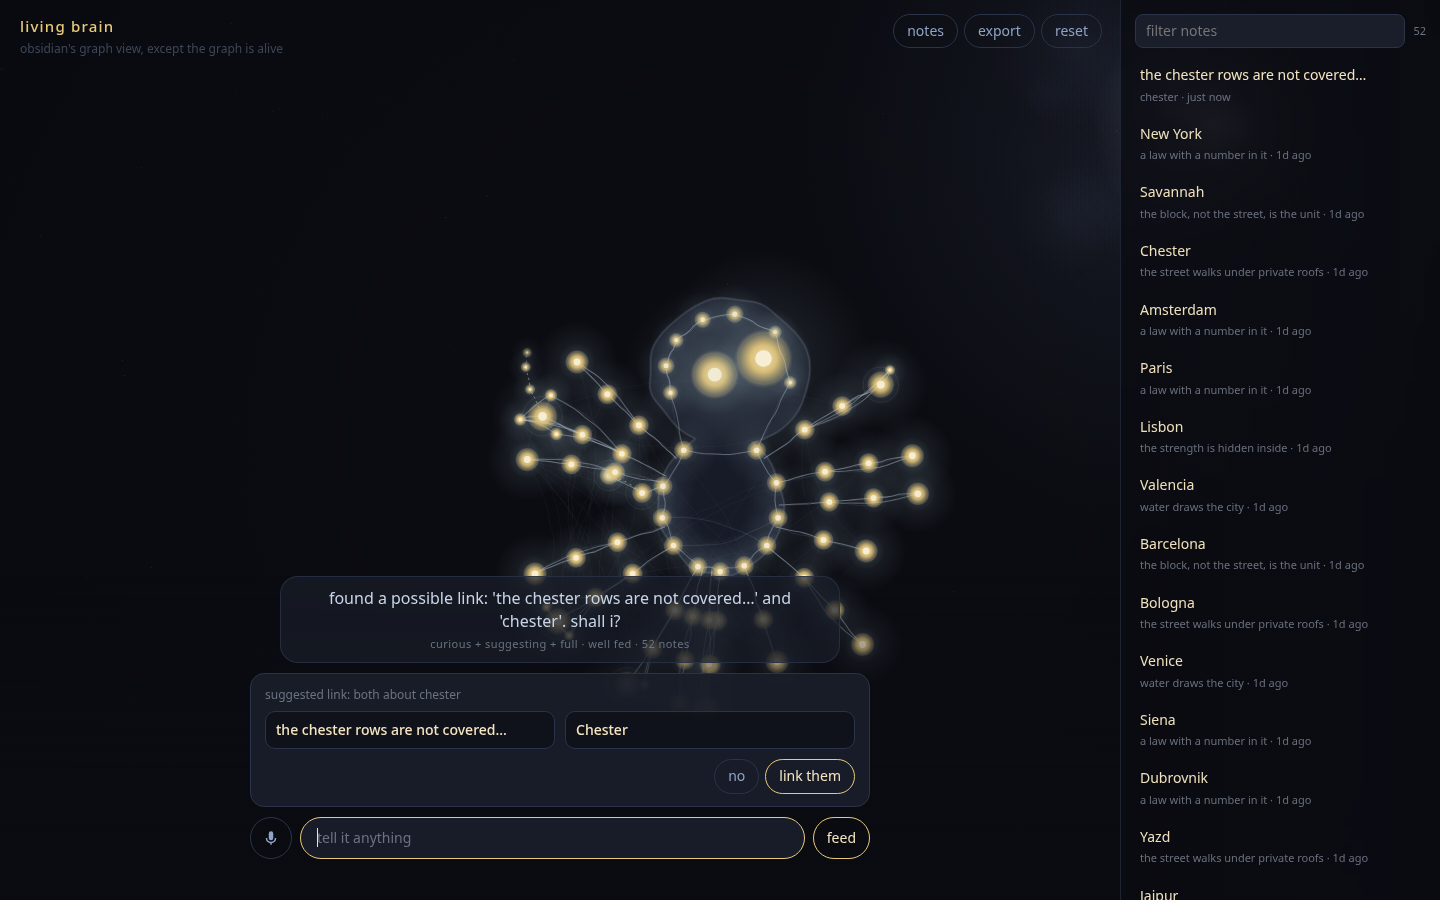
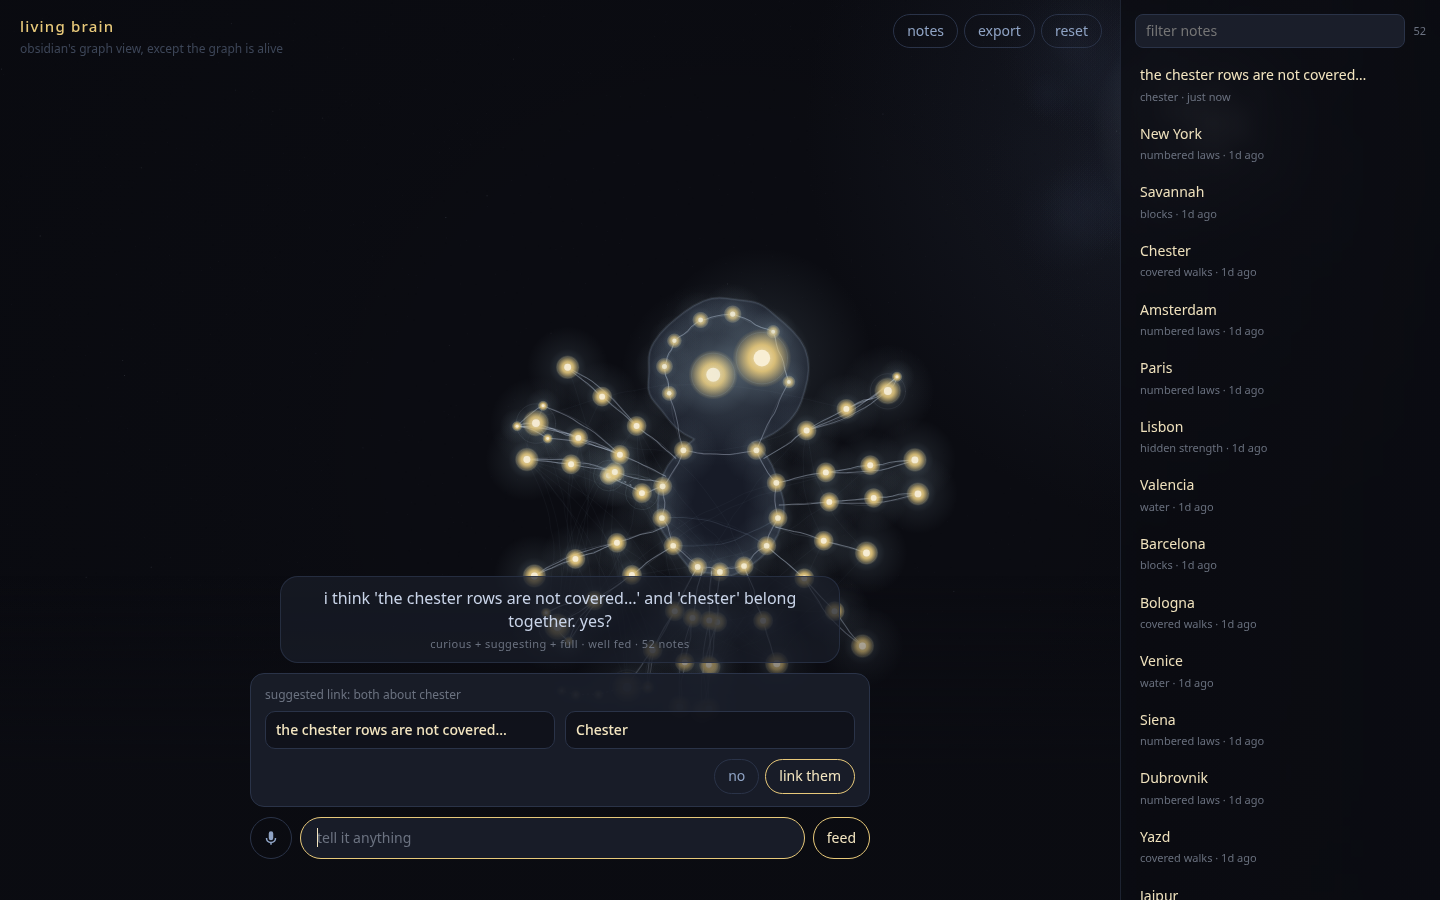
App: arguing lines quote ~8 words of each note (older first), {topic} from note.topic via tick()'s hungry limb (by Forge)

diff --git a/app/store.js b/app/store.js
@@ -145,29 +145,49 @@ export function resolve(store, cId, choice, mergedText, t = Date.now()) {
 }
 const olderOf = (store, c) => { const a = store.notes.find(n => n.id === c.a), b = store.notes.find(n => n.id === c.b); return ms(a.createdAt) <= ms(b.createdAt) ? a.id : b.id; };
 
-// Which limb droops, by name. ids: Engram's hungryIds if tick() gives them, else the hungriest
-// cluster, else the cluster with the oldest average lastTouchedAt (what Twelve's viz droops).
+// Which limb droops, by name. Engram's tick() decides: creature.hungryIds is the limb, and
+// creature.hungryFor is its topic (or, from older brain.js, its stalest titles). The shell only
+// falls back to its own guess when tick() names nothing (e.g. not hungry, or an older brain.js).
 export function droopingLimb(store, hunger = clusterHunger(store)) {
   const byId = new Map(store.notes.map(n => [n.id, n]));
-  let ids = store.creature?.hungryIds?.length ? store.creature.hungryIds : hunger[0] && hunger[0].hunger > 0.6 ? hunger[0].ids : null;
+  const c = store.creature || {}, hf = c.hungryFor || [];
+  const top = hunger[0] && hunger[0].hunger > 0.6 ? hunger[0] : null;
+  let ids = c.hungryIds?.length ? c.hungryIds : top ? top.ids : null;
   if (!ids) {
-    const staleness = c => c.ids.reduce((s, id) => s + ms(byId.get(id).lastTouchedAt), 0) / c.ids.length;
-    const multi = hunger.filter(c => c.ids.length > 1);
+    const staleness = g => g.ids.reduce((s, id) => s + ms(byId.get(id).lastTouchedAt), 0) / g.ids.length;
+    const multi = hunger.filter(g => g.ids.length > 1);
     const pool = multi.length ? multi : hunger;
     ids = pool.length ? pool.slice().sort((x, y) => staleness(x) - staleness(y))[0].ids : [];
   }
   const ns = ids.map(id => byId.get(id)).filter(n => n && alive(n));
-  const f = tagFreq(store.notes.filter(alive)), ok = usefulTag(f, store.notes.length);
-  // a cluster can hold several limbs (the seed is one big cluster), so name the stalest limb in it:
-  // group by note.topic, else by the most specific useful tag, and take the oldest average lastTouchedAt
-  const keyOf = n => n.topic || (n.tags || []).filter(ok).sort((a, b) => f.get(a) - f.get(b))[0] || (n.tags || [])[0] || 'that corner';
-  const groups = new Map();
-  for (const n of ns) { const k = keyOf(n); if (!groups.has(k)) groups.set(k, []); groups.get(k).push(n); }
   const avg = g => g.reduce((s, n) => s + ms(n.lastTouchedAt), 0) / g.length;
-  const [topic, limb] = [...groups].sort((x, y) => avg(x[1]) - avg(y[1]))[0] || ['that corner', []];
-  const hf = store.creature?.hungryFor || [];
-  const note = limb.find(n => hf.includes(n.title))?.title || limb.slice().sort((a, b) => ms(a.lastTouchedAt) - ms(b.lastTouchedAt))[0]?.title || '';
+  const topics = new Set(ns.map(n => n.topic).filter(Boolean));
+  // topic: hungryFor[0] when it is a topic, else the limb's one shared topic, else its stalest topic group
+  let topic = hf.find(x => topics.has(x)) || (topics.size === 1 ? [...topics][0] : null) || (top && top.topic) || null;
+  if (!topic && topics.size) {
+    const groups = new Map();
+    for (const n of ns) if (n.topic) { if (!groups.has(n.topic)) groups.set(n.topic, []); groups.get(n.topic).push(n); }
+    topic = [...groups].sort((x, y) => avg(x[1]) - avg(y[1]))[0][0];
+  }
+  let limb = topic ? ns.filter(n => n.topic === topic) : ns;
+  if (!topic) { // no topics at all: most specific shared tag
+    const f = tagFreq(store.notes.filter(alive)), ok = usefulTag(f, store.notes.length), m = new Map();
+    for (const t of ns.flatMap(n => (n.tags || []).filter(ok))) m.set(t, (m.get(t) || 0) + 1);
+    topic = [...m].sort((x, y) => y[1] - x[1])[0]?.[0] || 'that corner';
+  }
+  const stalest = limb.slice().sort((x, y) => ms(x.lastTouchedAt) - ms(y.lastTouchedAt));
+  const note = limb.find(n => hf.includes(n.title))?.title || stalest[0]?.title || '';
   return { ids, limbIds: limb.map(n => n.id), topic, note };
+}
+
+// ~8 of a note's own words, for arguing lines (kiln: quote the notes, not their titles)
+export function excerpt(text, max = 8) {
+  const words = String(text || '').replace(/#[\p{L}\p{N}_-]+/gu, '').replace(/\s+/g, ' ').trim().split(' ').filter(Boolean);
+  const cut = words.length > max;
+  let out = words.slice(0, max).join(' ');
+  if ((out.match(/\(/g) || []).length > (out.match(/\)/g) || []).length) out = out.slice(0, out.lastIndexOf('(')); // no half parentheses
+  out = out.replace(/[\s.,;:!?\-—]+$/, '');
+  return (out + (cut ? '…' : '')).toLowerCase();
 }
 
 // ---------- the creature's speech ----------
@@ -192,14 +212,18 @@ export function speech(store, lines, { hunger, event, lastNoteId, pick = Math.ra
   if (event === 'named') return { key: 'named', text: choose(L.naming, { name: c.name }) };
   if (event === 'after_no') return { key: 'after_no:' + Date.now(), text: choose(L.after_no, {}) };
   const arg = nextContradiction(store);
-  if (arg) return { key: 'arguing:' + arg.id, text: choose(L.moods?.arguing, { note_a: title(arg.a), note_b: title(arg.b) }) };
+  if (arg) { // a = older (coral), b = newer (violet); quote their own words, old first
+    const txt = id => excerpt(store.notes.find(n => n.id === id)?.text);
+    return { key: 'arguing:' + arg.id, text: choose(L.moods?.arguing, { note_a: txt(arg.a), note_b: txt(arg.b) }) };
+  }
   const sug = openSuggestion(store);
   if (sug) return { key: 'suggesting:' + sug.id, text: choose(L.flags?.suggesting, { note_a: title(sug.from), note_b: title(sug.to) }) };
   if (c.mood === 'curious' && lastNoteId) return { key: 'curious:' + lastNoteId, text: choose(L.moods?.curious, { note: title(lastNoteId) }) };
   if (c.mood === 'hungry') { const d = droopingLimb(store, hunger); return { key: 'hungry:' + d.topic, text: choose(L.moods?.hungry, { topic: low(d.topic), note: low(d.note) }) }; }
   if (f.full) {
     const ids = new Set(f.fullCluster || []), ns = store.notes.filter(n => ids.has(n.id));
-    const topic = ns.find(n => n.topic)?.topic || ns.flatMap(n => n.tags || []).find(t => t !== 'city') || 'this';
+    const count = new Map(); for (const n of ns) if (n.topic) count.set(n.topic, (count.get(n.topic) || 0) + 1);
+    const topic = [...count].sort((a, b) => b[1] - a[1])[0]?.[0] || ns.flatMap(n => n.tags || []).find(t => t !== 'city') || 'this';
     const note = ns.slice().sort((a, b) => ms(b.lastTouchedAt) - ms(a.lastTouchedAt))[0]?.title || '';
     return { key: 'full:' + topic, text: choose(L.flags?.full, { topic: low(topic), note: low(note) }) };
   }
